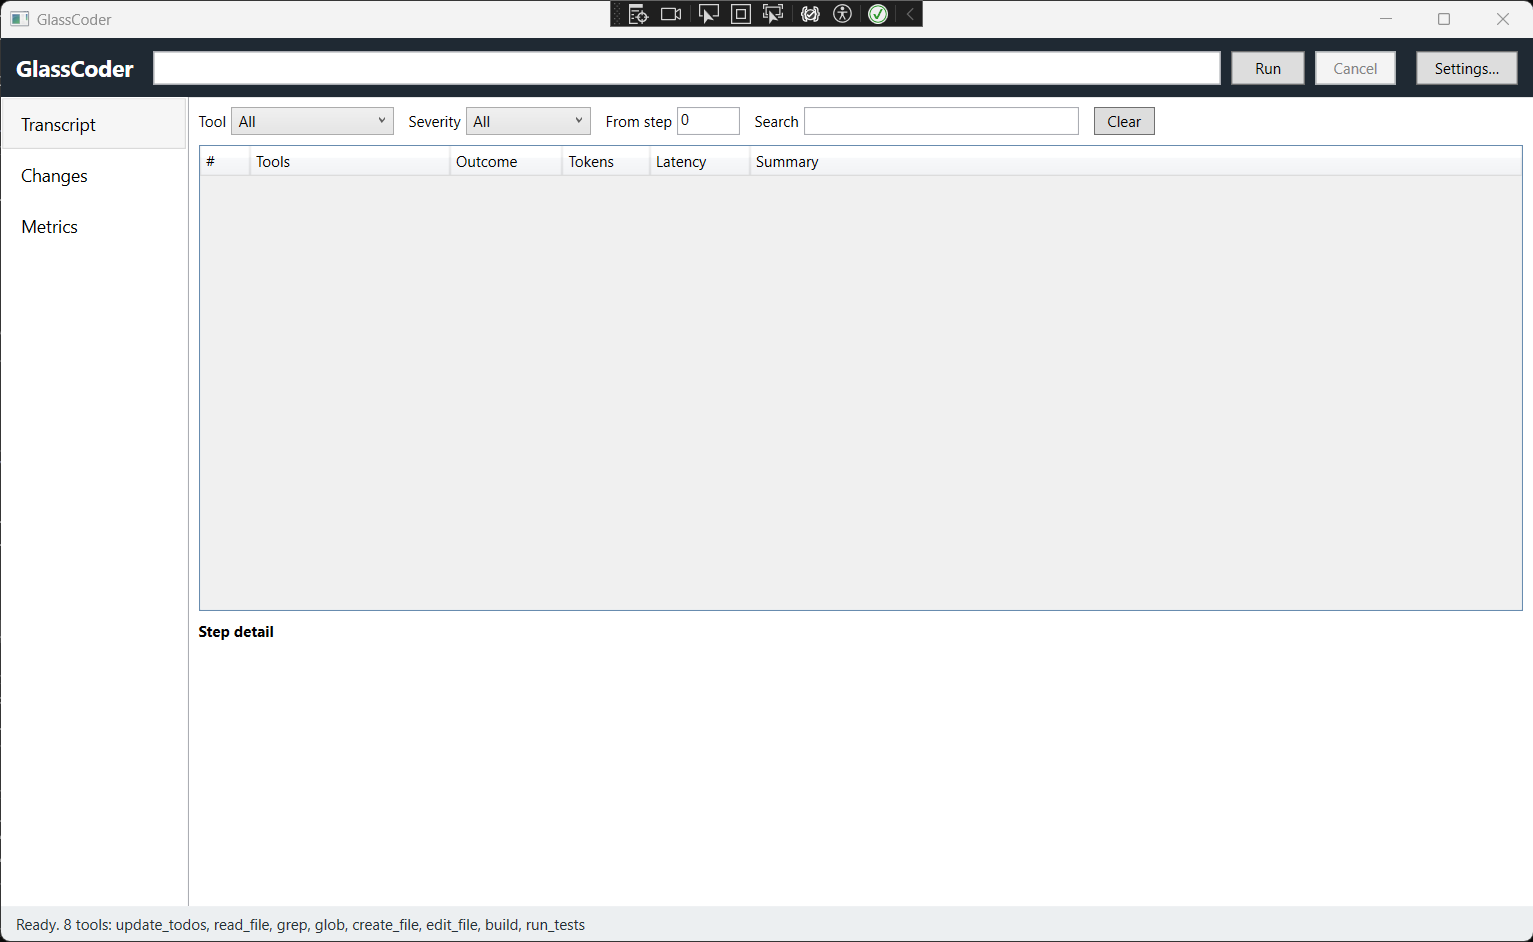
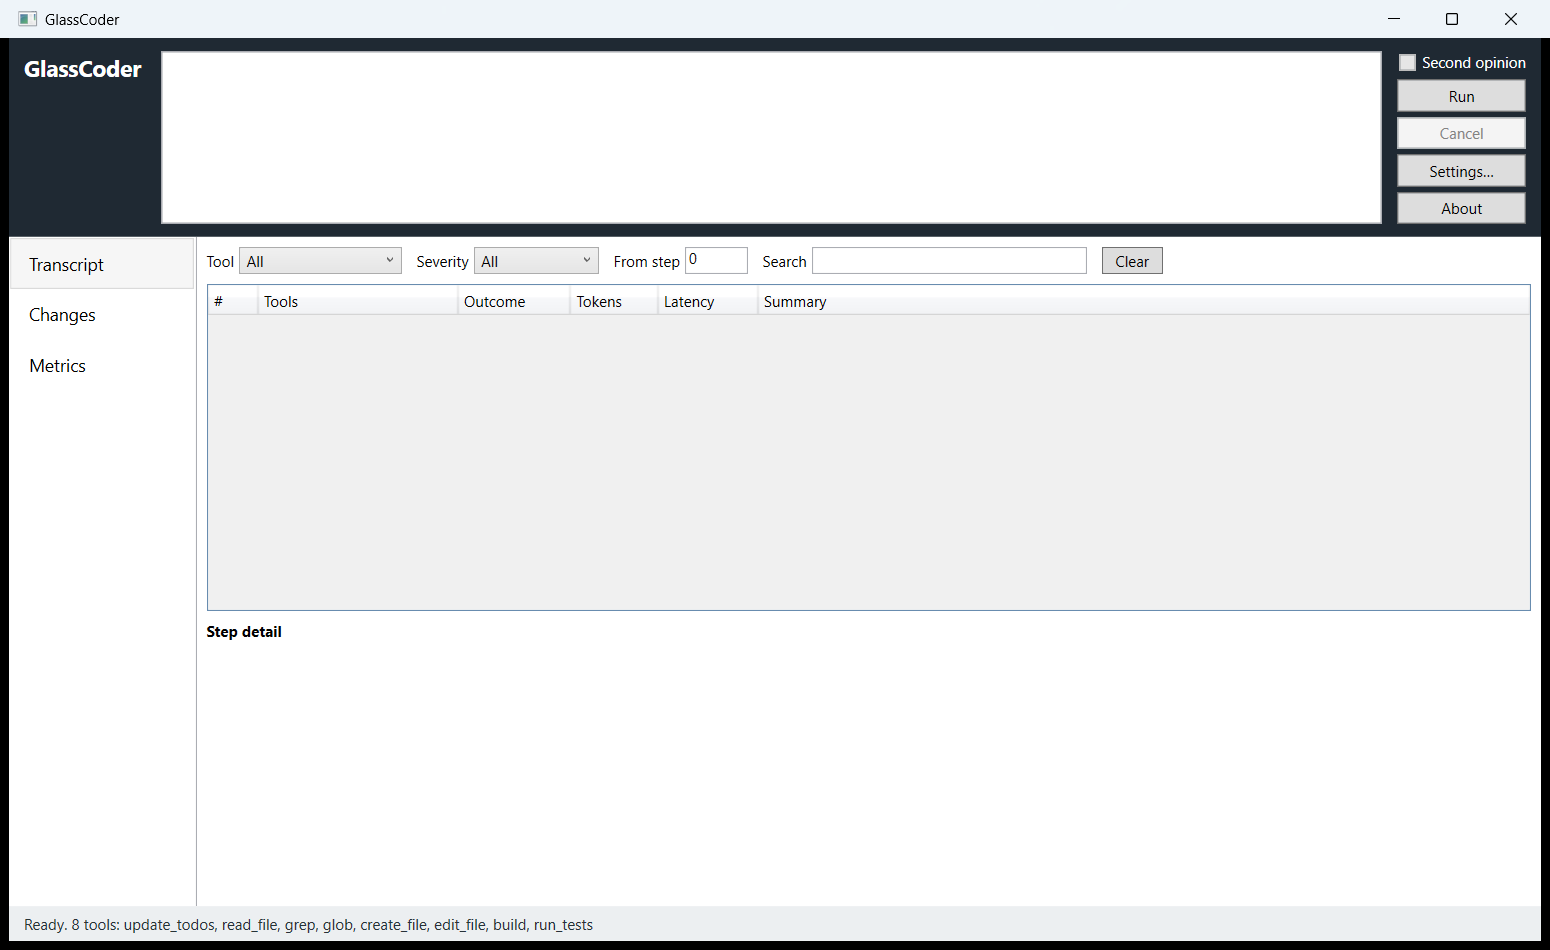
Reflow the header: multi-line goal box, controls in a column
The goal box becomes a five-line, wrapping, scrolling TextBox so a real task
description fits rather than a one-line title, and the run controls move into
a column to its right: the Second opinion checkbox above Run, Cancel, Settings
and About.

Two consequences of the taller box, handled:

- Enter now inserts a newline, so Ctrl+Enter runs (a Window.InputBinding on
  RunCommand) - otherwise a multi-line box has no keyboard way to submit.
- Retry now fills the goal box with the composed findings-appended goal before
  running, so what runs is visible and editable. With a one-line box the retry
  ran an invisible goal; with five lines that mismatch would show.

The header is a DockPanel, not a Grid: a right-docked control column reserves
its width before the filling goal box measures, so the buttons cannot be
starved off the edge.

Kept as a plain TextBox rather than a RichTextBox: the goal reaches the model
as a string, and a rich-text control would either strip its formatting on the
way out or leak XAML into the prompt. Any structure a user wants is theirs to
write as plain text.

Docs: refreshed GlassCoder.png for the new layout, repositioned the annotated
callouts and rewrote the goal-box / run-controls legend in wpf-app.html.
Ignore *_wpftmp.csproj - WPF markup-compile temp projects left behind when a
build is interrupted (one leaked here while the repo's Dropbox folder held a
lock on it mid-build).

Changed region(s): [[0.0, 0.0, 1.0, 1.0], [0.3986, 0.0, 0.6132, 0.0308]]

diff --git a/src/GlassCoder.Wpf/MainWindow.xaml b/src/GlassCoder.Wpf/MainWindow.xaml
@@ -21,44 +21,60 @@
     </DataTemplate>
   </Window.Resources>
 
+  <!-- Ctrl+Enter runs, because the goal box now accepts a plain Enter as a newline: a
+       multi-line description would otherwise have no way to submit from the keyboard. -->
+  <Window.InputBindings>
+    <KeyBinding Modifiers="Control" Key="Return" Command="{Binding RunCommand}" />
+  </Window.InputBindings>
+
   <DockPanel>
     <Border DockPanel.Dock="Top" Background="#1F2933" Padding="12,10">
-      <Grid>
-        <Grid.ColumnDefinitions>
-          <ColumnDefinition Width="Auto" />
-          <ColumnDefinition Width="*" />
-          <ColumnDefinition Width="Auto" />
-          <ColumnDefinition Width="Auto" />
-          <ColumnDefinition Width="Auto" />
-          <ColumnDefinition Width="Auto" />
-          <ColumnDefinition Width="Auto" />
-        </Grid.ColumnDefinitions>
+      <!-- DockPanel, not a Grid: a right-docked child reserves its full width before the filling
+           child measures, so the button column cannot be starved by the wrapping goal box. The
+           equivalent Grid ([Auto][*][Auto]) let the star column consume the buttons' width and
+           push them off the right edge. -->
+      <DockPanel LastChildFill="True">
+        <!-- Top-aligned: the header is now as tall as five lines of goal, so a vertically
+             centred brand would float in the middle of it. -->
+        <TextBlock DockPanel.Dock="Left" Text="GlassCoder" Foreground="White"
+                   FontSize="18" FontWeight="Bold"
+                   VerticalAlignment="Top" Margin="0,2,16,0" />
 
-        <TextBlock Grid.Column="0" Text="GlassCoder" Foreground="White" FontSize="18" FontWeight="Bold"
-                   VerticalAlignment="Center" Margin="0,0,16,0" />
+        <!-- The run controls, stacked in a column to the right of the goal box. The checkbox sits
+             above Run because it changes what Run does and is read the instant Run is pressed -
+             cause directly above effect. -->
+        <StackPanel DockPanel.Dock="Right" Margin="12,0,0,0">
+          <!-- Ticked before the run, never during it: the critic is part of what the run is, so
+               swapping it mid-flight would make one run two arms. -->
+          <CheckBox Content="Second opinion" Foreground="White" Margin="0,2,0,6"
+                    IsChecked="{Binding UseRemoteCritic}"
+                    IsEnabled="{Binding RemoteCriticAvailable}"
+                    ToolTip="{Binding RemoteCriticTooltip}" />
+          <Button Content="Run" Padding="18,4" Margin="0,0,0,4"
+                  Command="{Binding RunCommand}"
+                  ToolTip="Start the run. Ctrl+Enter does the same from the goal box." />
+          <Button Content="Cancel" Padding="18,4" Margin="0,0,0,4"
+                  Command="{Binding CancelCommand}" />
+          <Button Content="Settings…" Padding="18,4" Margin="0,0,0,4"
+                  Command="{Binding SettingsCommand}"
+                  ToolTip="Endpoints, API keys, budgets and guardrails - and a check that the seam works." />
+          <Button Content="About" Padding="18,4"
+                  Command="{Binding AboutCommand}"
+                  ToolTip="What this is, who built it, and which build you are running." />
+        </StackPanel>
 
-        <TextBox Grid.Column="1" VerticalAlignment="Center" Padding="6,4" FontSize="13"
+        <!-- Five lines visible, wrap, scroll past that: room for a real description rather than a
+             one-line title. The goal still reaches the model as a plain string - a rich-text box
+             would either strip its formatting on the way out or leak XAML into the prompt, so this
+             stays a TextBox and any structure a user wants is theirs to write as plain text.
+             Declared last so LastChildFill hands it the width the brand and buttons did not take. -->
+        <TextBox VerticalAlignment="Stretch" Padding="6,4" FontSize="13"
+                 AcceptsReturn="True" TextWrapping="Wrap"
+                 MinLines="5" MaxLines="5"
+                 VerticalScrollBarVisibility="Auto"
+                 SpellCheck.IsEnabled="True"
                  Text="{Binding Goal, UpdateSourceTrigger=PropertyChanged}" />
-
-        <!-- Ticked before the run, never during it: the critic is part of what the run is, so
-             swapping it mid-flight would make one run two arms. -->
-        <CheckBox Grid.Column="2" Content="Second opinion" Foreground="White" VerticalAlignment="Center"
-                  Margin="12,0,0,0"
-                  IsChecked="{Binding UseRemoteCritic}"
-                  IsEnabled="{Binding RemoteCriticAvailable}"
-                  ToolTip="{Binding RemoteCriticTooltip}" />
-
-        <Button Grid.Column="3" Content="Run" Padding="18,4" Margin="8,0,0,0"
-                Command="{Binding RunCommand}" />
-        <Button Grid.Column="4" Content="Cancel" Padding="14,4" Margin="8,0,0,0"
-                Command="{Binding CancelCommand}" />
-        <Button Grid.Column="5" Content="Settings…" Padding="14,4" Margin="16,0,0,0"
-                Command="{Binding SettingsCommand}"
-                ToolTip="Endpoints, API keys, budgets and guardrails - and a check that the seam works." />
-        <Button Grid.Column="6" Content="About" Padding="12,4" Margin="8,0,0,0"
-                Command="{Binding AboutCommand}"
-                ToolTip="What this is, who built it, and which build you are running." />
-      </Grid>
+      </DockPanel>
     </Border>
 
     <Border DockPanel.Dock="Bottom" Background="#ECEFF1" Padding="12,6">

diff --git a/docs/wpf-app.html b/docs/wpf-app.html
@@ -642,15 +642,15 @@
       <figure>
         <div class="shot">
           <img src="../GlassCoder.png"
-               alt="The GlassCoder desktop window: a dark header with the goal text box and Run, Cancel and Settings buttons, a left navigation list with Transcript, Changes and Metrics, a filter bar above an empty step table, a step detail pane, and a status bar reading &quot;Ready. 8 tools&quot;.">
-          <span class="mark" style="left:48.9%; top:7.2%;">1</span>
-          <span class="mark" style="left:85.5%; top:7.2%;">2</span>
-          <span class="mark" style="left:6.2%;  top:18.6%;">3</span>
-          <span class="mark" style="left:43%;   top:12.8%;">4</span>
-          <span class="mark" style="left:56%;   top:40%;">5</span>
-          <span class="mark" style="left:56%;   top:76%;">6</span>
-          <span class="mark" style="left:60%;   top:97.5%;">7</span>
-          <span class="mark" style="left:95.6%; top:7.2%;">8</span>
+               alt="The GlassCoder desktop window: a dark header with a five-line goal box on the left and a column of controls on the right - a Second opinion checkbox above Run, Cancel, Settings and About - a left navigation list with Transcript, Changes and Metrics, a filter bar above an empty step table, a step detail pane, and a status bar reading &quot;Ready. 8 tools&quot;.">
+          <span class="mark" style="left:37%; top:9%;">1</span>
+          <span class="mark" style="left:92%; top:10%;">2</span>
+          <span class="mark" style="left:6%;  top:28%;">3</span>
+          <span class="mark" style="left:43%; top:27%;">4</span>
+          <span class="mark" style="left:52%; top:46%;">5</span>
+          <span class="mark" style="left:16%; top:66%;">6</span>
+          <span class="mark" style="left:40%; top:97%;">7</span>
+          <span class="mark" style="left:92%; top:18%;">8</span>
         </div>
         <figcaption>GlassCoder.Wpf at startup — Transcript surface, no run yet.</figcaption>
       </figure>
@@ -659,22 +659,29 @@
         <div>
           <span class="n">1</span>
           <dt>Goal box</dt>
-          <dd>Free text, bound two-way on every keystroke. This is the entire task description —
-              there is no separate task form.</dd>
+          <dd>Free text, bound two-way on every keystroke, and the entire task description — there
+              is no separate task form. Five lines tall, wrapping, and scrolling past that, so a
+              real description fits rather than a one-line title. Because <kbd>Enter</kbd> now
+              inserts a newline, <b><kbd>Ctrl</kbd>+<kbd>Enter</kbd></b> runs — the same as pressing
+              <b>Run</b>.</dd>
         </div>
         <div>
           <span class="n">2</span>
-          <dt>Run · Cancel</dt>
-          <dd>Mutually exclusive: <b>Run</b> is enabled only when idle, <b>Cancel</b> only while a
-              run is in flight. Cancel trips the run's <code>CancellationToken</code>.</dd>
+          <dt>Run controls</dt>
+          <dd>A column to the right of the goal box: the <b>Second opinion</b> checkbox (2a) above
+              <b>Run</b>, <b>Cancel</b>, <b>Settings…</b> (8) and <b>About</b>. <b>Run</b> and
+              <b>Cancel</b> are mutually exclusive — <b>Run</b> is enabled only when idle,
+              <b>Cancel</b> only while a run is in flight, and Cancel trips the run's
+              <code>CancellationToken</code>.</dd>
         </div>
         <div>
           <span class="n">2a</span>
           <dt>Second opinion</dt>
-          <dd>Judges this run with the second-opinion critic instead of the local one. Read once,
-              when <b>Run</b> is pressed — a critic swapped mid-run would make one run two arms —
-              and recorded in the run record. Disabled, with a tooltip saying why, when critique is
-              switched off or the role has no key.
+          <dd>Sits directly above <b>Run</b>, because it changes what Run does: it judges this run
+              with the second-opinion critic instead of the local one. Read once, when <b>Run</b> is
+              pressed — a critic swapped mid-run would make one run two arms — and recorded in the
+              run record. Disabled, with a tooltip saying why, when critique is switched off or the
+              role has no key.
               <a href="NewFeatures/claude-second-opinion.html">Design note</a>.</dd>
         </div>
         <div>
@@ -712,9 +719,10 @@
           <dt>Review strip</dt>
           <dd>Appears above the status bar when a critic has judged the finished run, on whichever
               surface is selected — it is about the run, not about one change. <b>Retry with this</b>
-              starts a <em>new</em> run against the same task with the findings appended to the
-              goal, tagged as attempt 2 so <code>pass@1</code> stays the rate over first attempts.
-              Nothing but that button starts a retry.</dd>
+              puts the findings-appended goal into the goal box (1), where you can see and trim it,
+              and starts a <em>new</em> run against the same task, tagged as attempt 2 so
+              <code>pass@1</code> stays the rate over first attempts. Nothing but that button starts
+              a retry.</dd>
         </div>
         <div>
           <span class="n">8</span>

diff --git a/src/GlassCoder.Wpf/ViewModels/MainWindowViewModel.cs b/src/GlassCoder.Wpf/ViewModels/MainWindowViewModel.cs
@@ -307,7 +307,12 @@ public sealed class MainWindowViewModel : ViewModelBase, IDisposable
             return Task.CompletedTask;
         }
 
-        return RunAsync(RunReviewer.ComposeRetryGoal(_reviewedGoal, review), _reviewedAttempt + 1);
+        // Put the composed goal in the box before it runs, so the box shows what actually runs
+        // rather than the pre-retry text - with a five-line box that difference is now visible.
+        // It stays there, editable, after the run.
+        string composed = RunReviewer.ComposeRetryGoal(_reviewedGoal, review);
+        Goal = composed;
+        return RunAsync(composed, _reviewedAttempt + 1);
     }
 
     private async Task RunAsync(string goal, int attempt)
